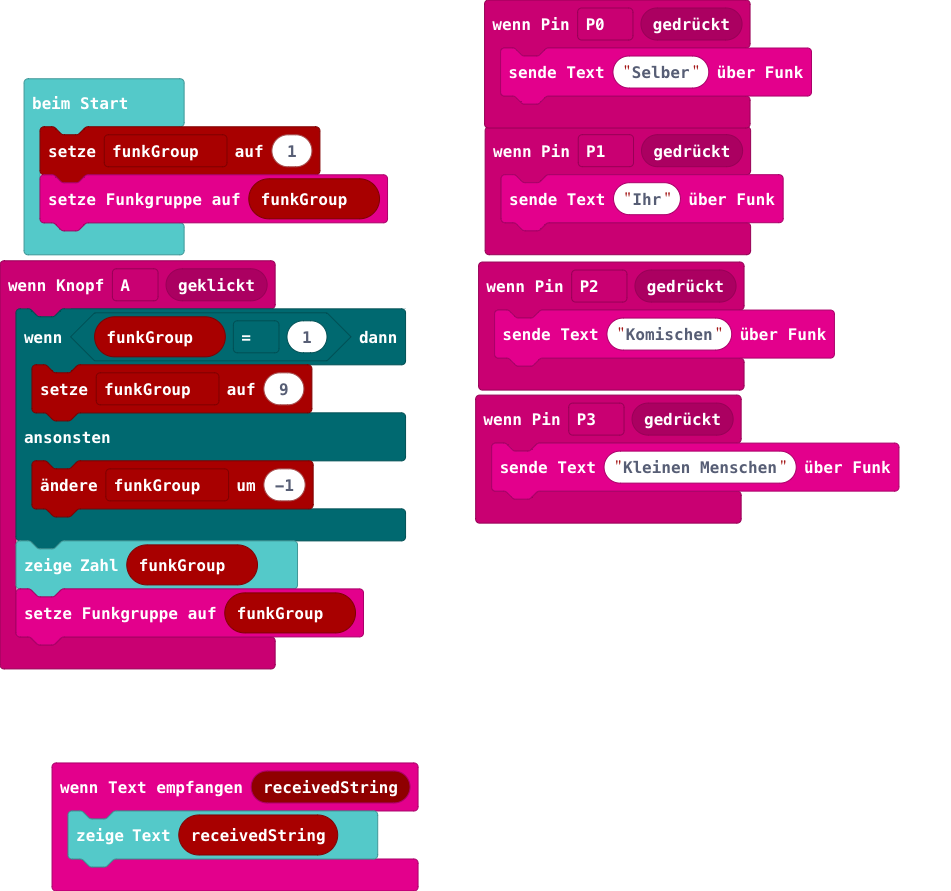
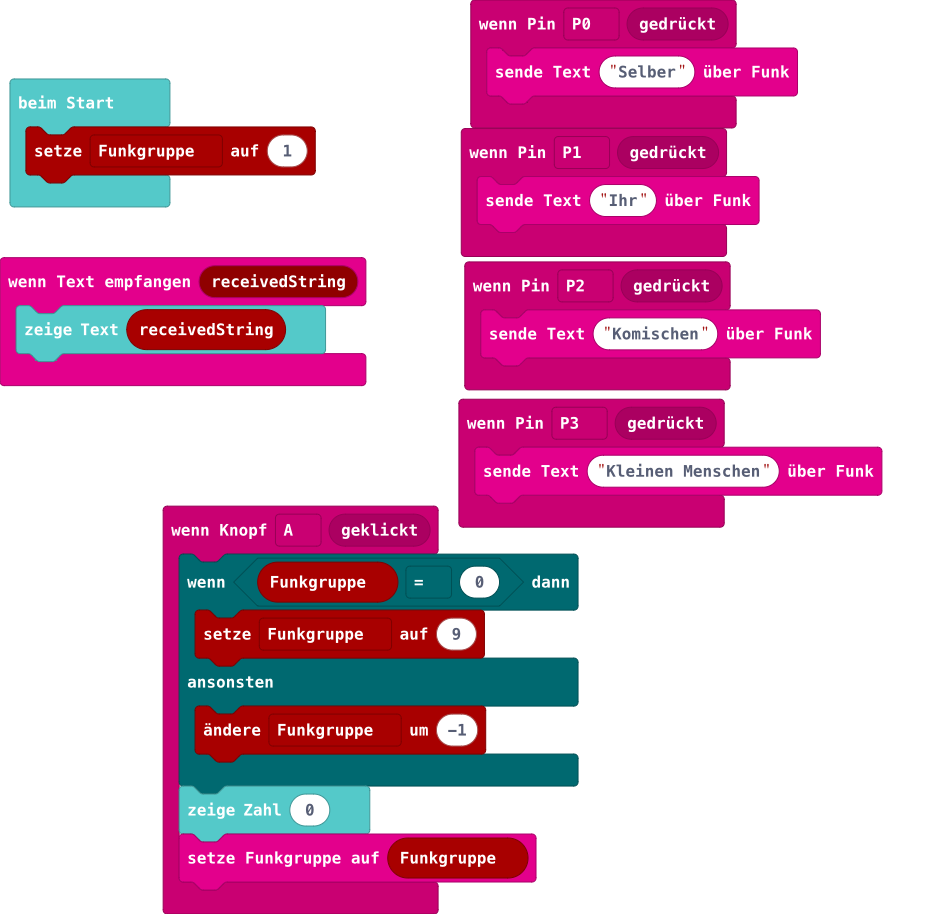
Aktualisiere main.blocks, main.ts

diff --git a/main.ts b/main.ts
@@ -2,13 +2,13 @@ input.onPinTouchEvent(TouchPin.P1, input.buttonEventDown(), function () {
     radio.sendString("Ihr")
 })
 input.onButtonEvent(Button.A, input.buttonEventClick(), function () {
-    if (funkGroup == 1) {
-        funkGroup = 9
+    if (Funkgruppe == 0) {
+        Funkgruppe = 9
     } else {
-        funkGroup += -1
+        Funkgruppe += -1
     }
-    basic.showNumber(funkGroup)
-    radio.setGroup(funkGroup)
+    basic.showNumber(0)
+    radio.setGroup(Funkgruppe)
 })
 radio.onReceivedString(function (receivedString) {
     basic.showString(receivedString)
@@ -22,6 +22,5 @@ input.onPinTouchEvent(TouchPin.P2, input.buttonEventDown(), function () {
 input.onPinTouchEvent(TouchPin.P3, input.buttonEventDown(), function () {
     radio.sendString("Kleinen Menschen")
 })
-let funkGroup = 0
-funkGroup = 1
-radio.setGroup(funkGroup)
+let Funkgruppe = 0
+Funkgruppe = 1
